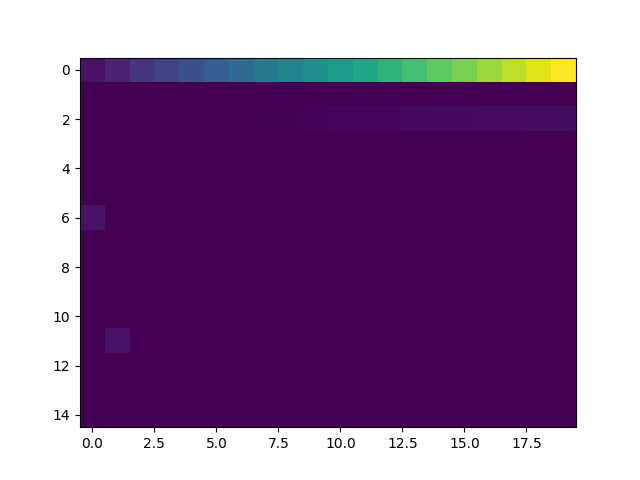
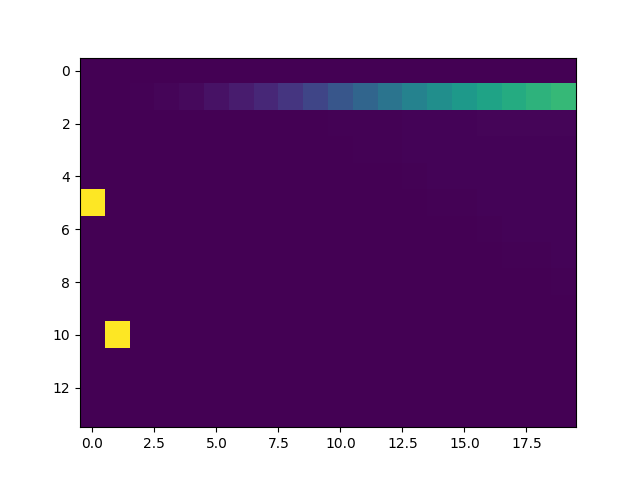
test

diff --git a/MCTDCRcode/MCNP-MATRIX/matrice.py b/MCTDCRcode/MCNP-MATRIX/matrice.py
@@ -97,7 +97,7 @@ plt.savefig('matrice/matrice.png')
 '''
 #m = matrice_p[0:15][:]
 #print(m)
-plt.imshow(matrice_p[0:15][:],aspect='auto')
+plt.imshow(matrice_p[1:15][:],aspect='auto')
 plt.savefig('matrice/matr.png')
 
 
